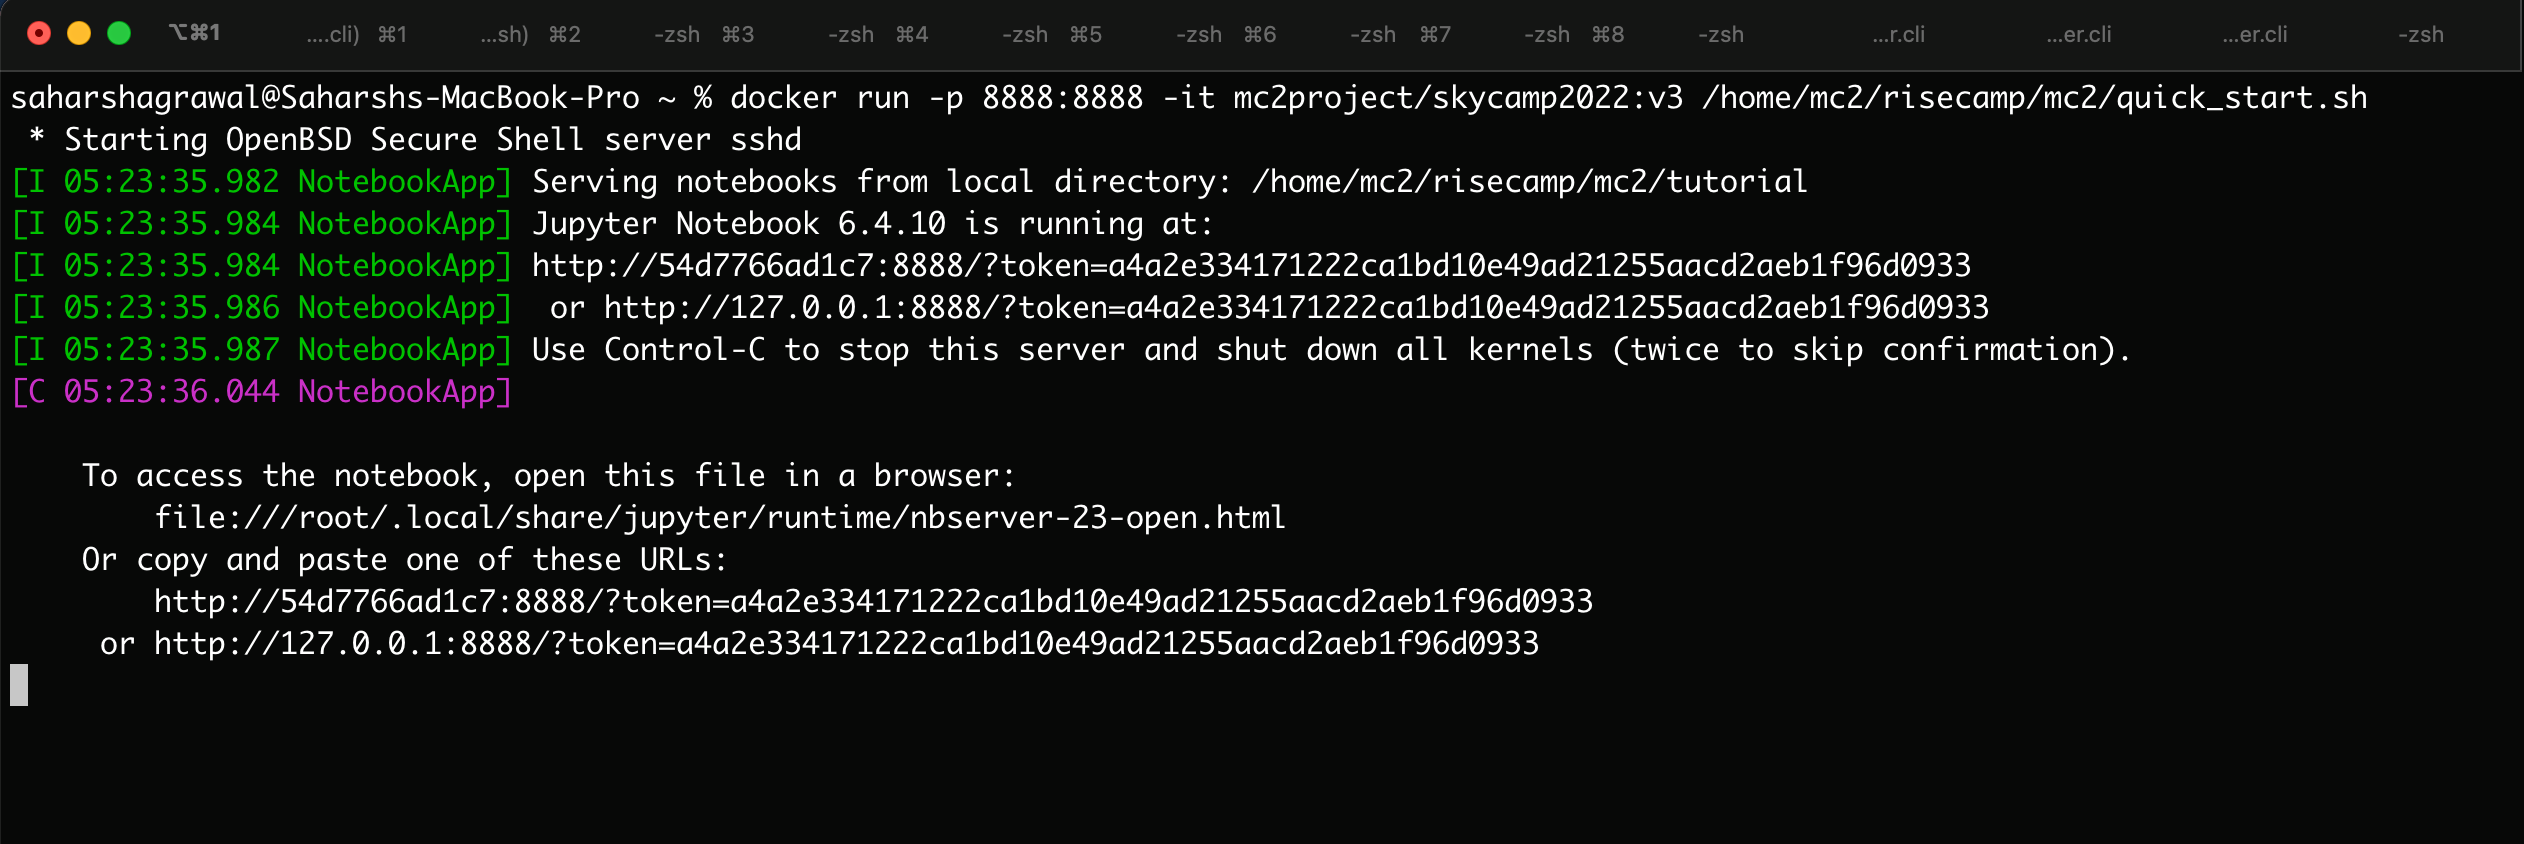
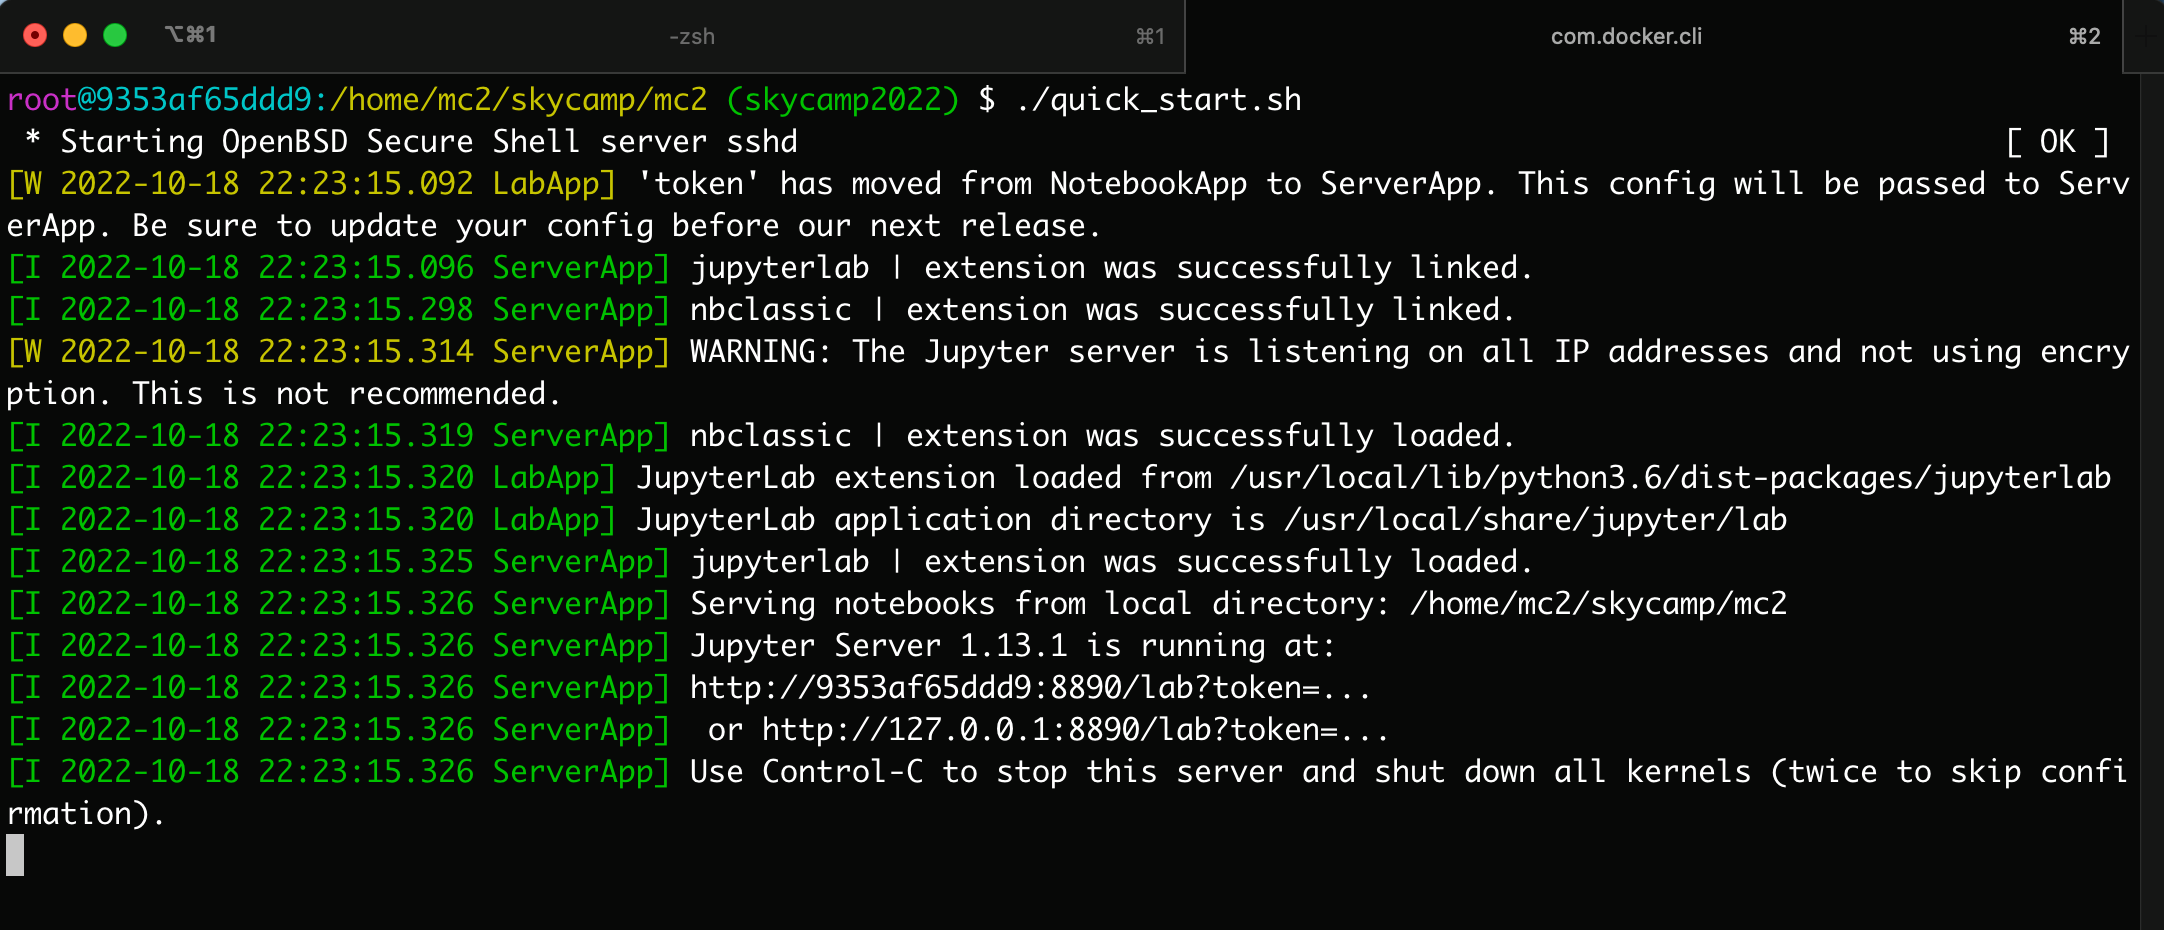
Updaitng readme and quickstart

diff --git a/mc2/tutorial/Utils.py b/mc2/tutorial/Utils.py
@@ -1,6 +1,7 @@
 import subprocess
 import sys
 import os
+import psutil
 import securexgboost as mc2
 
 running_processes = []
@@ -13,9 +14,16 @@ def start_server(clients):
         return
 
     if running_processes:
+    # Kill any running instances of the orchestrator and enclave process from prior runs
         for ps in running_processes:
             ps.kill()
         running_processes = []
+    
+    # As a secondary check, kill any orchestrator or enclave processes which may have been left over 
+    mypid = os.getpid()
+    for proc in psutil.process_iter():
+        if proc.pid != mypid and proc.name == 'utils/launch_enclave.py' or proc.name == 'utils/start_orchestrator.py':
+            proc.kill()
         
     enclave = ["python3", "utils/launch_enclave.py", str(clients)]
     orchestrator = ["python3", "utils/start_orchestrator.py", str(clients)]

diff --git a/README.md b/README.md
@@ -36,10 +36,14 @@ docker run -p 8890:8890 -it mc2project/skycamp2022:v1 /home/mc2/skycamp/mc2/quic
 
 4. **You should see output similar to the following if the Jupyter notebook has started successfully**
 
-![terminal](./assets/terminal2.png)
+![terminal](./assets/terminal.png)
 
-5. **Navigate to [http://localhost:8890](http://localhost:8890) or [http://127.0.0.1:8890](http://127.0.0.1:8890) to view the Jupyter notebook interface and click on** `tutorial/Welcome - Start Here.ipynb` **to start the tutorial!**
+5. **Navigate to [http://localhost:8890](http://localhost:8890) or [http://127.0.0.1:8890](http://127.0.0.1:8890) to view the Jupyter notebook interface and enter the password `SkyCamp2022` to access the Jupyter Lab environment.
 
-![jupyter](./assets/jupyter.png)
+![jupyter](./assets/jupyter_token.png)
+
+Click on `Welcome - Start Here.ipynb` in the left-hand file viewer to start the tutorial!**
+
+![jupyter](./assets/jupyter_lab.png)
 
 6. **Leave feedback for the Sky Camp MC2 tutorial [here](https://forms.gle/mRZNqMHa9Xgcrg9F6) 🙏**
